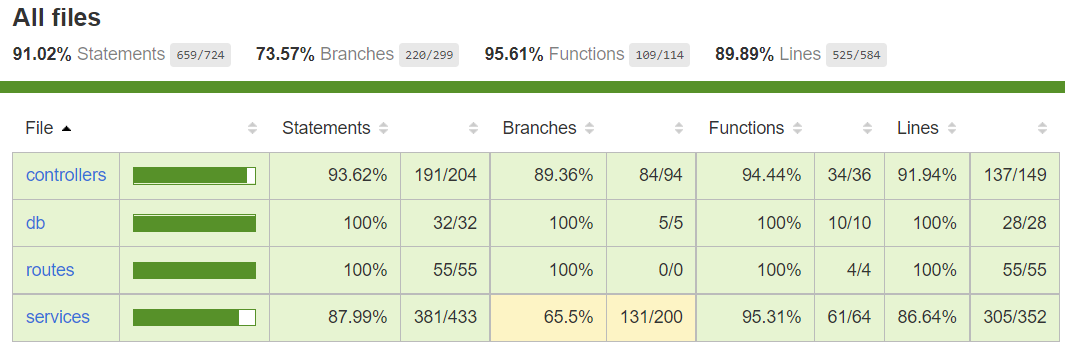
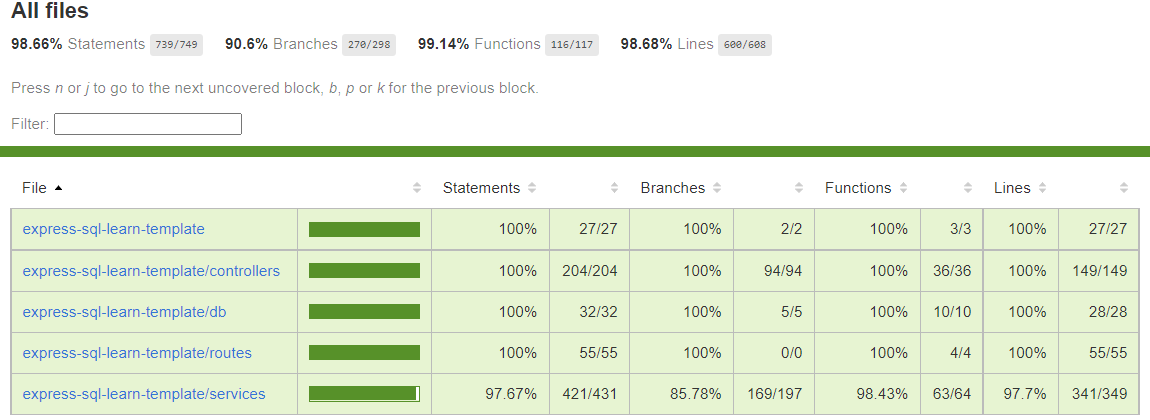
Update readme to get ready for production

diff --git a/README.md b/README.md
@@ -1,4 +1,9 @@
 # express-sql-learn-template
+Demo express server with sql, controllers, routes and services, as a basic demonstration of architecture and how to implement unit testing with high coverage in typescript
+
+## GitHub Repository
+[![`GitHub`](https://img.shields.io/github/package-json/v/OrenVilderman/express-sql-learn-template?logo=github)](https://github.com/OrenVilderman/express-sql-learn-template.git)
+[![Tests](https://github.com/OrenVilderman/express-sql-learn-template/actions/workflows/test.yml/badge.svg)](https://github.com/OrenVilderman/express-sql-learn-template/actions/workflows/test.yml)
 
 ## Installation
 Install by running 
@@ -6,17 +11,17 @@ Install by running
 npm install
 ```
 
-## Start Server with debug* (Optional to use F5 before running the script)
-Start with nodemon by running:
+## Start the server with debug* (Optional to use F5 before running the script)
+Start the server by running:
 ``` 
 npm start
 ```
-Start directly with ts-node by running:
+Start with nodemon by running:
 ``` 
-npm run start-backup
+npm run start-dev
 ```
 
-## Start the tests that will print the full Jest HTML coverage report
+## Start the jest coverage tests that will print the full Jest HTML coverage report
 Start the tests by running:
 ``` 
 npm test
@@ -125,17 +130,23 @@ id,luck,join_date
 ### UI interface is available in local server at: http://localhost:${PORT}/index.html
 
 ## Unit tests cover status:
-<img alt="Image_Of_Unit_Tests_Cover_Report" src="public\Unit_Tests_Cover.png" style="width:95%;"/>
+<img alt="Image_Of_Unit_Tests_Cover_Report" src="public\Unit_Tests_Cover.png" style="min-width:800px; width:1200px;"/>
 
-## TODO:
-### # Create unit tests in precompile script to be later use in git merge
-### # Create compile and lint tests by using GitHub Actions 
-### # Improve the public UI+UX
-### ~~Push to GitHub the public interface~~ Done
-### ~~Add PATCH API calls from the public UI~~ Done
-### ~~Add endpoint documentation in README to be used in Postman~~ Done
-### ~~Publish the file export methods that support CSV,JSON and TEXT export format for DB tables~~ Done
-### # Think if to allow SQL Injections via the UI
-### # Publish site to domain
-### # Decide version 1.0.0
-### # Add UI library for components
+## Pull Request / Contribute
+PRs are only possible from a separate branch.
+
+Before submitting a PR please validate lint, unit tests, test cover and version update:
+- You should fix linting issues by running `npm run fix-lint` - Make sure to fix every error and warning.
+- You should run unit tests by running `npm test` - Make sure that all the tests pass.
+- The test coverage should get to **100%**, now: `98.66% Statements 739/749 | 90.6% Branches 270/289 | 99.14% Functions 116/117 | 98.68% Lines 600/608` - Make sure to add tests if needed.
+- **Always** increment* the version, according to the specifications below.
+- Adding a unit test that uncover a bug is very welcome - I will create a fix for the bug that will allow you to pull and merge your unit test ASAP.
+
+*The correct way to increment the version is by using the correct npm script that represent the change you are introducing
+
+## Versions
+Run `npm version patch` in cases of bug fixes or small modifications.
+
+Run `npm version minor` in cases of functionality changes with **non-breaking** changes.
+
+Run `npm version major` in cases of important functionality or any **breaking** changes.
